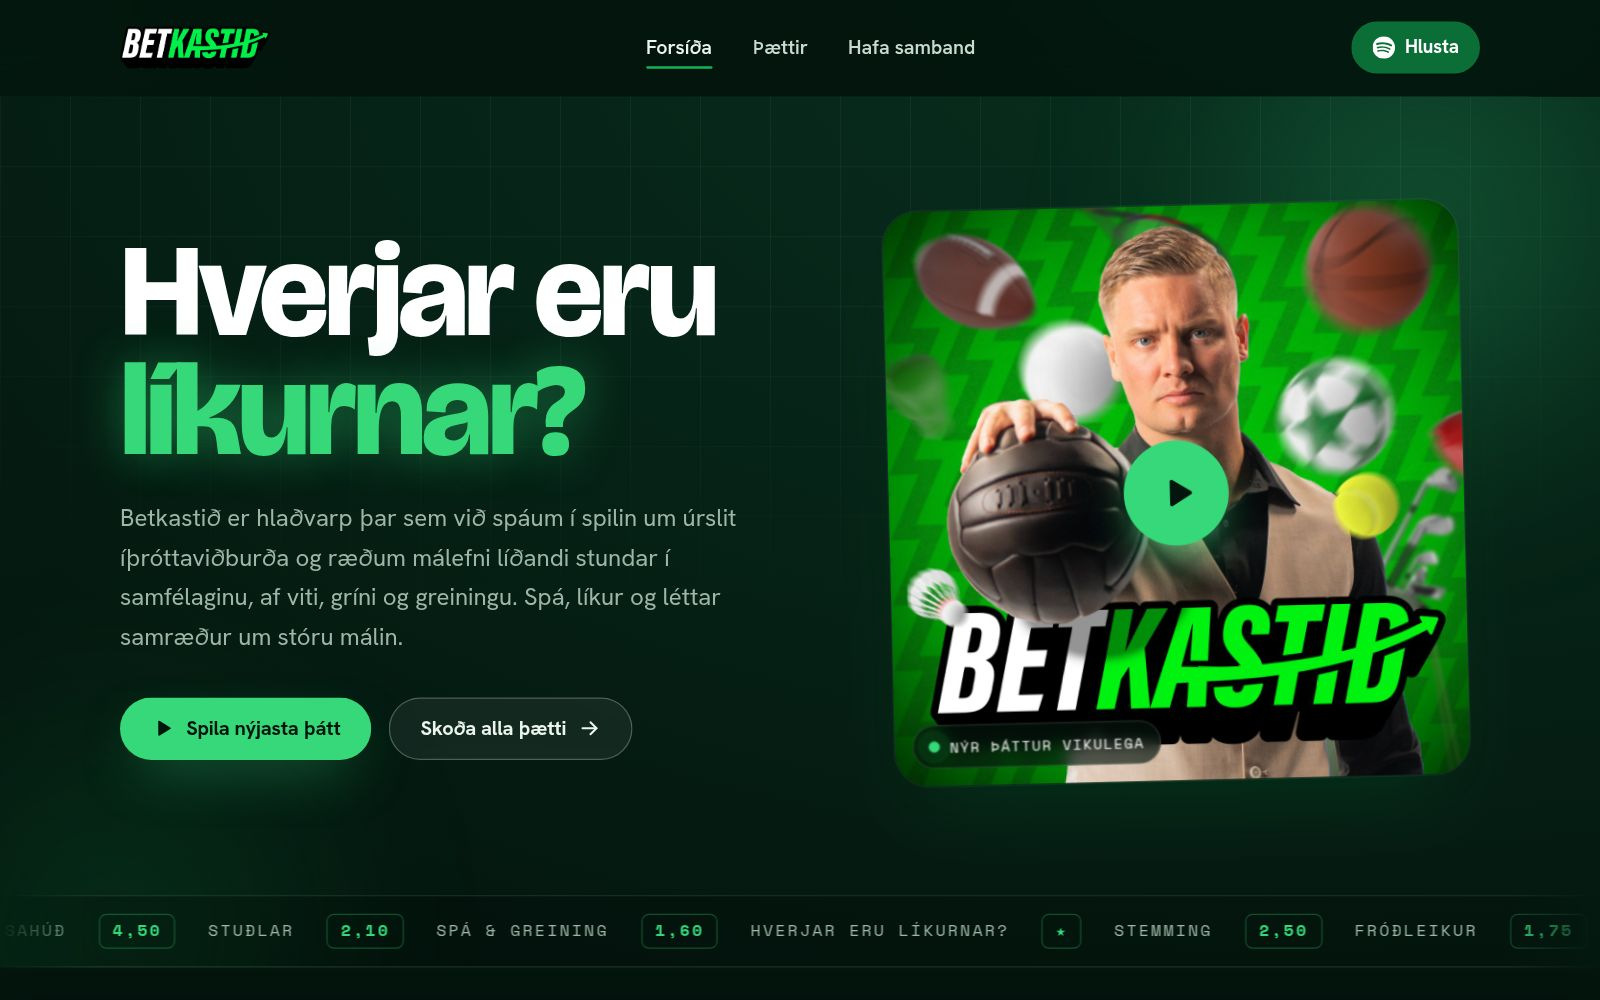
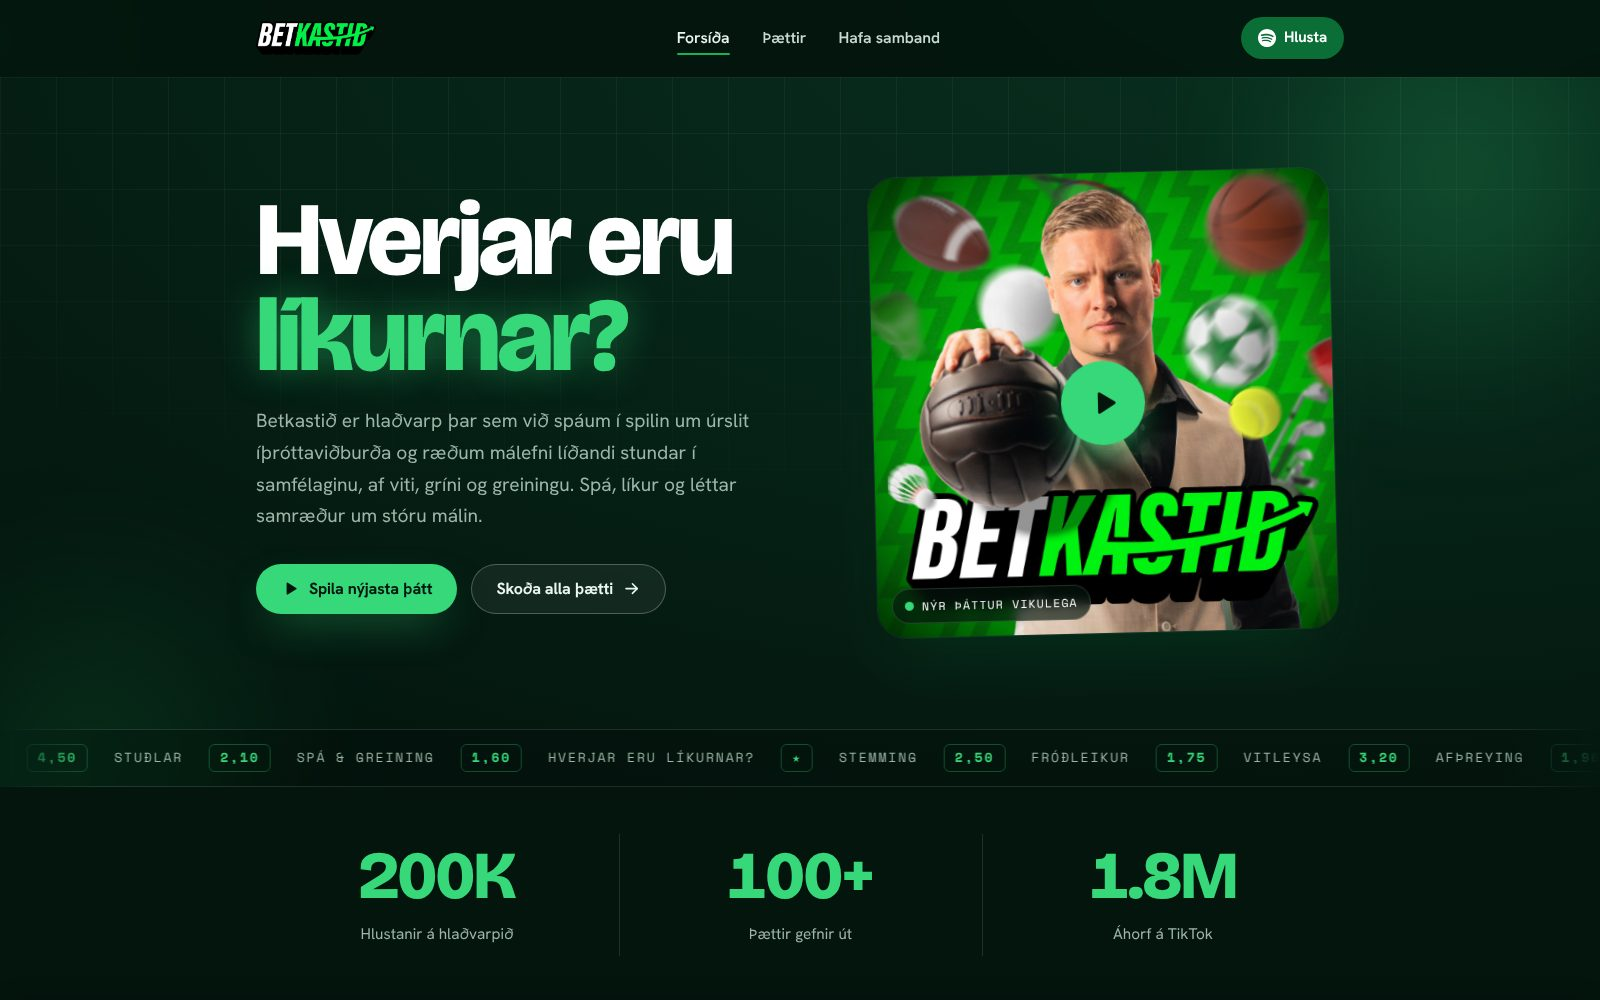
Itarlegri synidaemi og nyr Bella Italia vefur
Hvert verk faer naermyndir: tvaer undirsidur og simaskot. Oll skjaskot
tekin upp a nytt, thar a medal af nyja bellaitalia.is. Tolur uppfaerdar
(Chess After Dark 370+, Betkastid 200K/100+/1.8M) og lysing Bella
Italia endurskrifud.

Claude-Session: https://claude.ai/code/session_01H5rZwWNbbFWhpDgJfoUxcE

diff --git a/index.html b/index.html
@@ -147,7 +147,7 @@
           <h2>Vefir sem tala sínu máli.</h2>
           <p class="section-lede">
             Hlaðvörp, lögmannsstofa og ferðaþjónusta. Ólíkur rekstur, sama krafan:
-            vefur sem fólk tekur mark á.
+            vefur sem fólk tekur mark á. Hér er hvert verk sýnt frá forsíðu niður í síma.
           </p>
         </header>
 
@@ -167,14 +167,24 @@
             </a>
             <div class="project-detail">
               <h3>Chess After Dark</h3>
-              <p>Heimili fyrir eitt stærsta hlaðvarp landsins. Vefsíða sem heldur utan um 340+ þætti og breytir gestum í hlustendur.</p>
+              <p>Heimili fyrir eitt stærsta hlaðvarp landsins. Vefsíða sem heldur utan um 370+ þætti og breytir gestum í hlustendur.</p>
             <dl class="project-stats">
-              <div><dt data-count="340" data-suffix="+">340+</dt><dd class="mono">þættir</dd></div>
+              <div><dt data-count="370" data-suffix="+">370+</dt><dd class="mono">þættir</dd></div>
               <div><dt data-count="2.5" data-dec="1" data-suffix="M+">2.5M+</dt><dd class="mono">spilanir</dd></div>
               <div><dt data-count="1" data-suffix="M+">1M+</dt><dd class="mono">klst. hlustað</dd></div>
             </dl>
+            <ul class="project-notes">
+              <li>Hver þáttur með sína síðu, gest og lengd</li>
+              <li>Leit og síur eftir efni: knattspyrna, pólitík, skák, viðskipti</li>
+              <li>Beinir tenglar á Spotify, Apple Podcasts, YouTube og Twitch</li>
+            </ul>
               <a class="btn btn-ghost" href="https://chessafterdark.is" target="_blank" rel="noopener">Skoða vefinn <svg class="ico" viewBox="0 0 24 24" aria-hidden="true"><path d="M7 17 17 7M9 7h8v8"/></svg></a>
             </div>
+          </div>
+          <div class="project-gallery">
+            <figure style="--d:0"><img src="work/chessafterdark-2.jpg" alt="Chess After Dark: Allir þættir" width="1200" height="750" loading="lazy" decoding="async" /><figcaption class="mono"><b>A</b>Allir þættir</figcaption></figure>
+            <figure style="--d:1"><img src="work/chessafterdark-3.jpg" alt="Chess After Dark: Þáttastjórnendur" width="1200" height="750" loading="lazy" decoding="async" /><figcaption class="mono"><b>B</b>Þáttastjórnendur</figcaption></figure>
+            <figure class="is-phone" style="--d:2"><img src="work/chessafterdark-m.jpg" alt="Chess After Dark í síma" width="585" height="1266" loading="lazy" decoding="async" /><figcaption class="mono"><b>C</b>Í síma</figcaption></figure>
           </div>
         </article>
 
@@ -197,11 +207,16 @@
               <p>Vefur fyrir lögmannsstofu Hallmundar Albertssonar. Rólegt og vandað yfirbragð sem byggir upp traust áður en fyrsta samtalið er bókað.</p>
             <ul class="project-notes">
               <li>Á íslensku og ensku</li>
-              <li>Sjö starfssvið sett fram á skýran hátt</li>
-              <li>Bókun á samtali beint af vefnum</li>
+              <li>Sjö starfssvið, hvert með dæmum um verkefni</li>
+              <li>Ferill, skrif og bókun á samtali á einni síðu</li>
             </ul>
               <a class="btn btn-ghost" href="https://intralegem.is" target="_blank" rel="noopener">Skoða vefinn <svg class="ico" viewBox="0 0 24 24" aria-hidden="true"><path d="M7 17 17 7M9 7h8v8"/></svg></a>
             </div>
+          </div>
+          <div class="project-gallery">
+            <figure style="--d:0"><img src="work/intralegem-2.jpg" alt="Intra Legem: Starfssvið" width="1200" height="750" loading="lazy" decoding="async" /><figcaption class="mono"><b>A</b>Starfssvið</figcaption></figure>
+            <figure style="--d:1"><img src="work/intralegem-3.jpg" alt="Intra Legem: Lögmaðurinn" width="1200" height="750" loading="lazy" decoding="async" /><figcaption class="mono"><b>B</b>Lögmaðurinn</figcaption></figure>
+            <figure class="is-phone" style="--d:2"><img src="work/intralegem-m.jpg" alt="Intra Legem í síma" width="585" height="1266" loading="lazy" decoding="async" /><figcaption class="mono"><b>C</b>Í síma</figcaption></figure>
           </div>
         </article>
 
@@ -222,6 +237,11 @@
             <div class="project-detail">
               <h3>Betkastið</h3>
               <p>Vefsíða fyrir eitt vinsælasta íþróttahlaðvarp landsins, hönnuð og smíðuð frá grunni með áherslu á skýra framsetningu og trausta notendaupplifun.</p>
+            <dl class="project-stats">
+              <div><dt data-count="200" data-suffix="K">200K</dt><dd class="mono">hlustanir</dd></div>
+              <div><dt data-count="100" data-suffix="+">100+</dt><dd class="mono">þættir</dd></div>
+              <div><dt data-count="1.8" data-dec="1" data-suffix="M">1.8M</dt><dd class="mono">áhorf á TikTok</dd></div>
+            </dl>
             <ul class="project-notes">
               <li>Klippusöfn tengd beint við samfélagsmiðla</li>
               <li>Innbyggður spilari fyrir hlustun beint á vefnum</li>
@@ -229,6 +249,11 @@
             </ul>
               <a class="btn btn-ghost" href="https://betkastid.is" target="_blank" rel="noopener">Skoða vefinn <svg class="ico" viewBox="0 0 24 24" aria-hidden="true"><path d="M7 17 17 7M9 7h8v8"/></svg></a>
             </div>
+          </div>
+          <div class="project-gallery">
+            <figure style="--d:0"><img src="work/betkastid-2.jpg" alt="Betkastið: Allir þættir" width="1200" height="750" loading="lazy" decoding="async" /><figcaption class="mono"><b>A</b>Allir þættir</figcaption></figure>
+            <figure style="--d:1"><img src="work/betkastid-3.jpg" alt="Betkastið: Flokkar eftir íþróttagreinum" width="1200" height="750" loading="lazy" decoding="async" /><figcaption class="mono"><b>B</b>Flokkar eftir íþróttagreinum</figcaption></figure>
+            <figure class="is-phone" style="--d:2"><img src="work/betkastid-m.jpg" alt="Betkastið í síma" width="585" height="1266" loading="lazy" decoding="async" /><figcaption class="mono"><b>C</b>Í síma</figcaption></figure>
           </div>
         </article>
 
@@ -248,14 +273,19 @@
             </a>
             <div class="project-detail">
               <h3>Bella Italia</h3>
-              <p>Vefur fyrir ferðaþjónustu sem skipuleggur ferðir Íslendinga til Rómar og í villur á Ítalíu.</p>
+              <p>Nýr vefur fyrir ferðaþjónustu sem leigir út villur með sundlaug og skipuleggur borgarferðir um alla Ítalíu. Stórar myndir selja ferðina og tilboð er aldrei meira en einn smell í burtu.</p>
             <ul class="project-notes">
-              <li>Róm og villur, hvort á sínum stað</li>
-              <li>Umsagnir ferðalanga í forgrunni</li>
-              <li>Stutt leið í að hafa samband</li>
+              <li>Villur og fimm borgir, hver með sína síðu</li>
+              <li>Umsagnir gesta í forgrunni</li>
+              <li>Fyrirspurnarform fyrir tilboð í villu</li>
             </ul>
               <a class="btn btn-ghost" href="https://bellaitalia.is" target="_blank" rel="noopener">Skoða vefinn <svg class="ico" viewBox="0 0 24 24" aria-hidden="true"><path d="M7 17 17 7M9 7h8v8"/></svg></a>
             </div>
+          </div>
+          <div class="project-gallery">
+            <figure style="--d:0"><img src="work/bellaitalia-2.jpg" alt="Bella Italia: Villur" width="1200" height="750" loading="lazy" decoding="async" /><figcaption class="mono"><b>A</b>Villur</figcaption></figure>
+            <figure style="--d:1"><img src="work/bellaitalia-3.jpg" alt="Bella Italia: Róm" width="1200" height="750" loading="lazy" decoding="async" /><figcaption class="mono"><b>B</b>Róm</figcaption></figure>
+            <figure class="is-phone" style="--d:2"><img src="work/bellaitalia-m.jpg" alt="Bella Italia í síma" width="585" height="1266" loading="lazy" decoding="async" /><figcaption class="mono"><b>C</b>Í síma</figcaption></figure>
           </div>
         </article>
       </div>

diff --git a/styles.css b/styles.css
@@ -346,6 +346,7 @@ h2 {
 .project-detail > p { color: var(--muted); font-size: clamp(1rem, 1.6vw, 1.08rem); max-width: 46ch; }
 
 .project-stats { display: flex; margin-top: 1.75rem; border-top: 1px solid var(--line); border-bottom: 1px solid var(--line); }
+.project-stats + .project-notes { margin-top: 0; border-top: 0; }
 .project-stats > div { flex: 1; padding: 1rem 0.9rem 0.9rem 0; }
 .project-stats > div + div { padding-left: 0.9rem; border-left: 1px solid var(--line); }
 .project-stats dt {
@@ -365,6 +366,33 @@ h2 {
 .project-notes li::before { content: ""; position: absolute; left: 0; top: 1.2em; width: 7px; height: 7px; background: var(--c); }
 
 .project-detail .btn { margin-top: 1.75rem; }
+
+/* nærmyndir: tvær undirsíður og síminn, allar í sömu hæð */
+.project-gallery {
+  --h: clamp(150px, 46vw, 230px);
+  display: flex; gap: 10px;
+  margin-top: clamp(1.5rem, 3.5vw, 2.75rem);
+  overflow-x: auto;
+  scroll-snap-type: x proximity;
+  scrollbar-width: none;
+  margin-inline: calc(var(--gutter) * -1);
+  padding-inline: var(--gutter);
+}
+.project-gallery::-webkit-scrollbar { display: none; }
+.project-gallery figure { flex: none; scroll-snap-align: start; }
+.project-gallery img {
+  height: var(--h); width: auto; max-width: none;
+  border: 1px solid var(--line-2);
+  transition: border-color 0.25s;
+}
+.project-gallery figure:hover img { border-color: var(--c); }
+.project-gallery figcaption { margin-top: 0.6rem; font-size: 0.66rem; }
+.project-gallery figcaption b { color: var(--c); font-weight: 500; margin-right: 0.7em; }
+@media (min-width: 900px) {
+  /* 1.6 : 1.6 : 0.462 eru hlutföll myndanna, svo hæðin verður jöfn */
+  .project-gallery { display: grid; grid-template-columns: 1.6fr 1.6fr 0.462fr; overflow: visible; margin-inline: 0; padding-inline: 0; }
+  .project-gallery img { width: 100%; height: auto; }
+}
 
 /* =========================================================
    TESTIMONIAL

diff --git a/README.md b/README.md
@@ -6,8 +6,8 @@ Briem) that designs and builds fast, distinctive websites for companies.
 Live message: _“Vefsíður sem láta fólk taka fyrirtækið þitt alvarlega.”_
 
 The `#work` section showcases live projects with real screenshots stored in
-`work/` (e.g. `work/chessafterdark.jpg`, `work/betkastid.jpg`, `work/intralegem.jpg`,
-`work/bellaitalia.jpg`).
+`work/` — per site: `<name>.jpg` (front page, 1600×1000), `<name>-2.jpg` and
+`<name>-3.jpg` (inner pages, 1200×750) and `<name>-m.jpg` (phone, 585×1266).
 
 ## Stack
 
